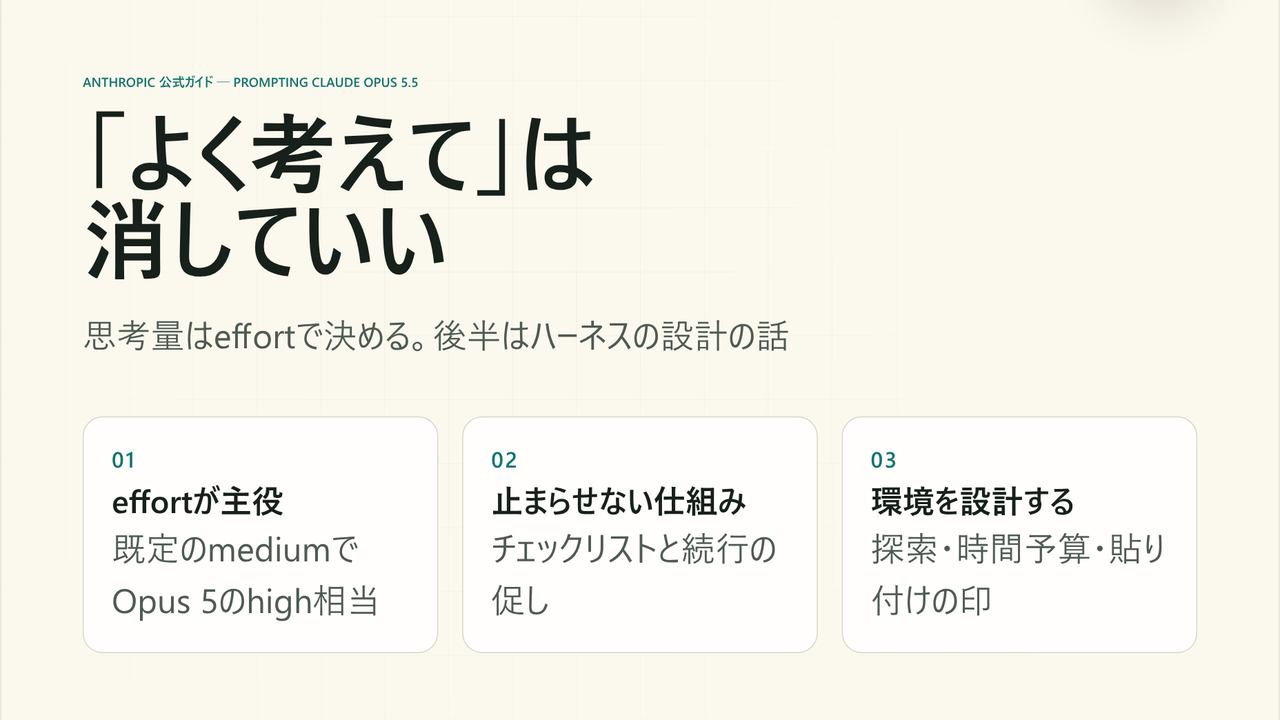
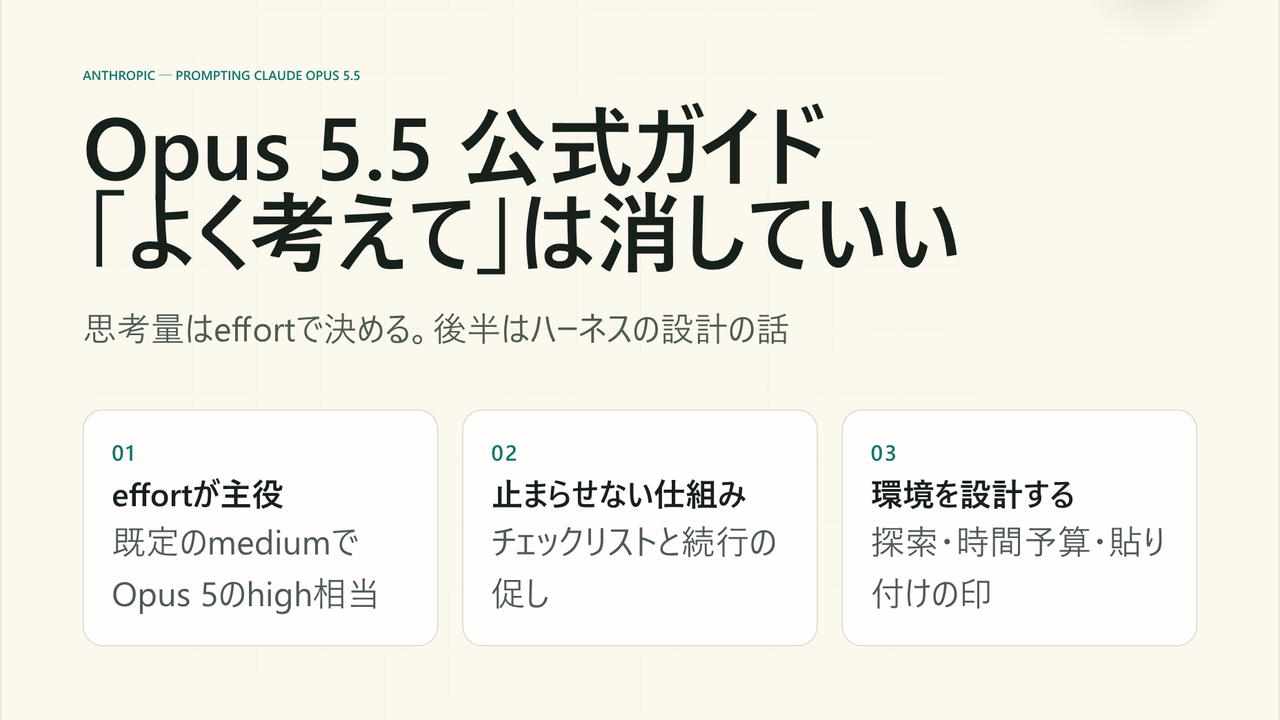
fix: put the official-guide label in the Opus 5.5 deck title (#213)
Closes #212

diff --git a/content/decks/opus-5-5-prompting-guide/slides.tsx b/content/decks/opus-5-5-prompting-guide/slides.tsx
@@ -42,8 +42,8 @@ function OpeningSlide({ frame }: SlideRenderContext) {
   return (
     <TitleSlide
       frame={frame}
-      kicker="Anthropic 公式ガイド ─ Prompting Claude Opus 5.5"
-      heading={'「よく考えて」は\n消していい'}
+      kicker="Anthropic ─ Prompting Claude Opus 5.5"
+      heading={'Opus 5.5 公式ガイド\n「よく考えて」は消していい'}
       lead="思考量はeffortで決める。後半はハーネスの設計の話"
       points={[
         { step: '01', heading: 'effortが主役', body: '既定のmediumでOpus 5のhigh相当' },
